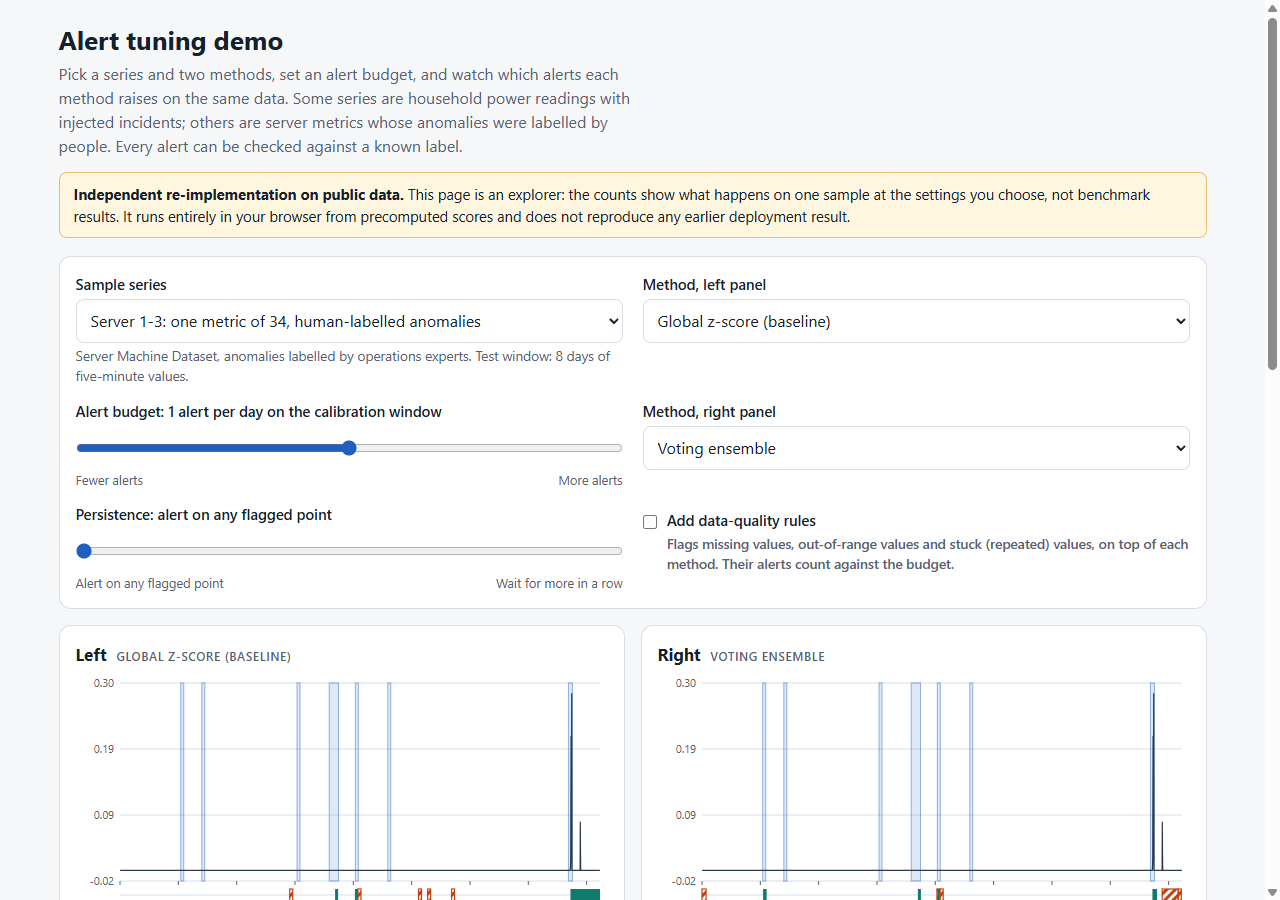
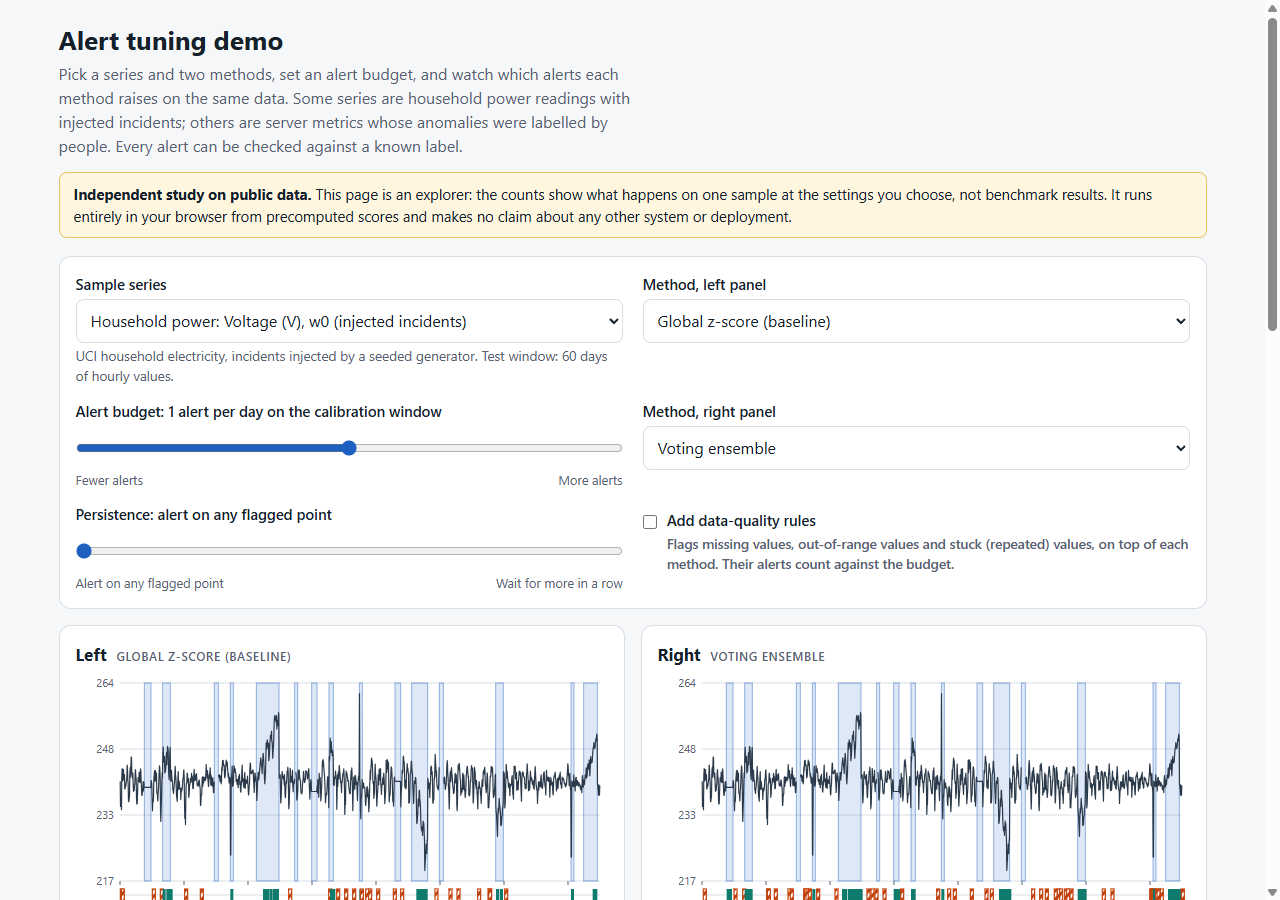
docs: state what the study measures, without outside-figure provenance
Replace the statements about figures from another project or deployment
with neutral scope text: the study measures its own results on public data
and makes no claim about any other system. Measured numbers and status
labels are unchanged.

diff --git a/docs/index.html b/docs/index.html
@@ -76,7 +76,7 @@ a{color:var(--accent)}
 <div class="wrap">
   <h1>Alert tuning demo</h1>
   <p class="lede">Pick a series and two methods, set an alert budget, and watch which alerts each method raises on the same data. Some series are household power readings with injected incidents; others are server metrics whose anomalies were labelled by people. Every alert can be checked against a known label.</p>
-  <p class="notice"><strong>Independent re-implementation on public data.</strong> This page is an explorer: the counts show what happens on one sample at the settings you choose, not benchmark results. It runs entirely in your browser from precomputed scores and does not reproduce any earlier deployment result.</p>
+  <p class="notice"><strong>Independent study on public data.</strong> This page is an explorer: the counts show what happens on one sample at the settings you choose, not benchmark results. It runs entirely in your browser from precomputed scores and makes no claim about any other system or deployment.</p>
 
   <section class="card" aria-label="Controls">
     <div class="controls">
@@ -153,7 +153,7 @@ a{color:var(--accent)}
       <li><strong>Data-quality rules.</strong> Optional checks for missing values, values outside the usual range and values stuck at the same reading. They are added to each method's flags and their alerts count against the budget. A threshold that cannot meet the budget because of the rules alone makes the method silent.</li>
       <li><strong>Reading the numbers.</strong> An alert is a run of flagged points. It is a true alert if it overlaps a labelled incident and a false alert otherwise. An incident counts as caught if at least one alert falls inside it, and the delay is the time from the start of the incident to the first flagged point. Natural events that nobody labelled count as false alerts.</li>
     </ol>
-    <p style="margin-top:10px;color:var(--muted);font-size:.9rem">Evaluated results across many series and seeds, with methods and limitations, are in the repository README. The 20% false-positive reduction on the CV is a reported result from an earlier deployment and is not reproduced here.</p>
+    <p style="margin-top:10px;color:var(--muted);font-size:.9rem">Evaluated results across many series and seeds, with methods and limitations, are in the repository README, including the cases where no detector beats a plain z-score. This study makes no claim about any other system or deployment.</p>
   </details>
 
   <footer>

diff --git a/scripts/demo_template.html b/scripts/demo_template.html
@@ -76,7 +76,7 @@ a{color:var(--accent)}
 <div class="wrap">
   <h1>Alert tuning demo</h1>
   <p class="lede">Pick a series and two methods, set an alert budget, and watch which alerts each method raises on the same data. Some series are household power readings with injected incidents; others are server metrics whose anomalies were labelled by people. Every alert can be checked against a known label.</p>
-  <p class="notice"><strong>Independent re-implementation on public data.</strong> This page is an explorer: the counts show what happens on one sample at the settings you choose, not benchmark results. It runs entirely in your browser from precomputed scores and does not reproduce any earlier deployment result.</p>
+  <p class="notice"><strong>Independent study on public data.</strong> This page is an explorer: the counts show what happens on one sample at the settings you choose, not benchmark results. It runs entirely in your browser from precomputed scores and makes no claim about any other system or deployment.</p>
 
   <section class="card" aria-label="Controls">
     <div class="controls">
@@ -153,7 +153,7 @@ a{color:var(--accent)}
       <li><strong>Data-quality rules.</strong> Optional checks for missing values, values outside the usual range and values stuck at the same reading. They are added to each method's flags and their alerts count against the budget. A threshold that cannot meet the budget because of the rules alone makes the method silent.</li>
       <li><strong>Reading the numbers.</strong> An alert is a run of flagged points. It is a true alert if it overlaps a labelled incident and a false alert otherwise. An incident counts as caught if at least one alert falls inside it, and the delay is the time from the start of the incident to the first flagged point. Natural events that nobody labelled count as false alerts.</li>
     </ol>
-    <p style="margin-top:10px;color:var(--muted);font-size:.9rem">Evaluated results across many series and seeds, with methods and limitations, are in the repository README. The 20% false-positive reduction on the CV is a reported result from an earlier deployment and is not reproduced here.</p>
+    <p style="margin-top:10px;color:var(--muted);font-size:.9rem">Evaluated results across many series and seeds, with methods and limitations, are in the repository README, including the cases where no detector beats a plain z-score. This study makes no claim about any other system or deployment.</p>
   </details>
 
   <footer>

diff --git a/scripts/run_benchmark.py b/scripts/run_benchmark.py
@@ -88,8 +88,8 @@ def build_log(ds, args, runtime_s, date, units, chosen, tune_summary, rule_summa
     a(f"# Benchmark run {date}: {ds.upper()}")
     a("")
     a(f"Status label: `Verified (run {date}, seeds {seeds})`. Produced by `scripts/run_benchmark.py --dataset {ds}`"
-      f"{' --smoke' if args.smoke else ''}. These are new numbers from an independent re-implementation; they are not "
-      "the result reported for the earlier deployment on the CV.")
+      f"{' --smoke' if args.smoke else ''}. These are new numbers from an independent study on public data; "
+      "they make no claim about any other system or deployment.")
     a("")
     a("## Settings")
     a("")

diff --git a/scripts/run_evaluation.py b/scripts/run_evaluation.py
@@ -59,8 +59,8 @@ def build_log(df, args, runtime_s, date, n_units) -> tuple[str, dict]:
     a("")
     a(f"Status label: `Verified (run {date}, seeds {seeds})`. Numbers below were produced by "
       "`scripts/run_evaluation.py` on public data with injected, labelled anomalies. They are new "
-      "numbers from an independent re-implementation. They are **not** the result reported for the "
-      "earlier deployment on the CV, and they do not reproduce or confirm it.")
+      "numbers from an independent study on public data and make no claim about any other system or "
+      "deployment.")
     a("")
     a("## Development notes (full disclosure)")
     a("")

diff --git a/README.md b/README.md
@@ -1,10 +1,9 @@
-# Anomaly Detection for Data Quality and Monitoring: fewer false alerts without missing incidents
+# Anomaly Detection for Data Quality and Monitoring: what reduces false alerts, and what does not
 
 [![License: CC BY-NC-ND 4.0](https://img.shields.io/badge/License-CC%20BY--NC--ND%204.0-lightgrey.svg)](https://creativecommons.org/licenses/by-nc-nd/4.0/)
 [![ci](https://github.com/Janeferdinant/anomaly-detection-monitoring/actions/workflows/ci.yml/badge.svg)](https://github.com/Janeferdinant/anomaly-detection-monitoring/actions/workflows/ci.yml)
 
-> **Independent re-implementation on public data. The 20% reduction in false positives on the CV is a reported result from an earlier deployment and is not reproduced here.**
-> The data and code of the original deployment are not available. Nothing in this repository is that result, and none of the numbers below should be read as confirming or replacing it.
+> **Independent study on public data.** On injected anomalies in household-power series, the best detector alone cuts false alerts by 77% [-83%, -67%] against a global z-score at matched recall (Verified, run 2026-10-14, seeds 0, 1, 2, 3, 4). On real expert-labelled server data no detector is distinguishable from the z-score (-24% [-69%, +200%]), and adding the data-quality rule layer raises about 7 false alerts a day. The study makes no claim about any other system or deployment.
 
 ## Summary
 
